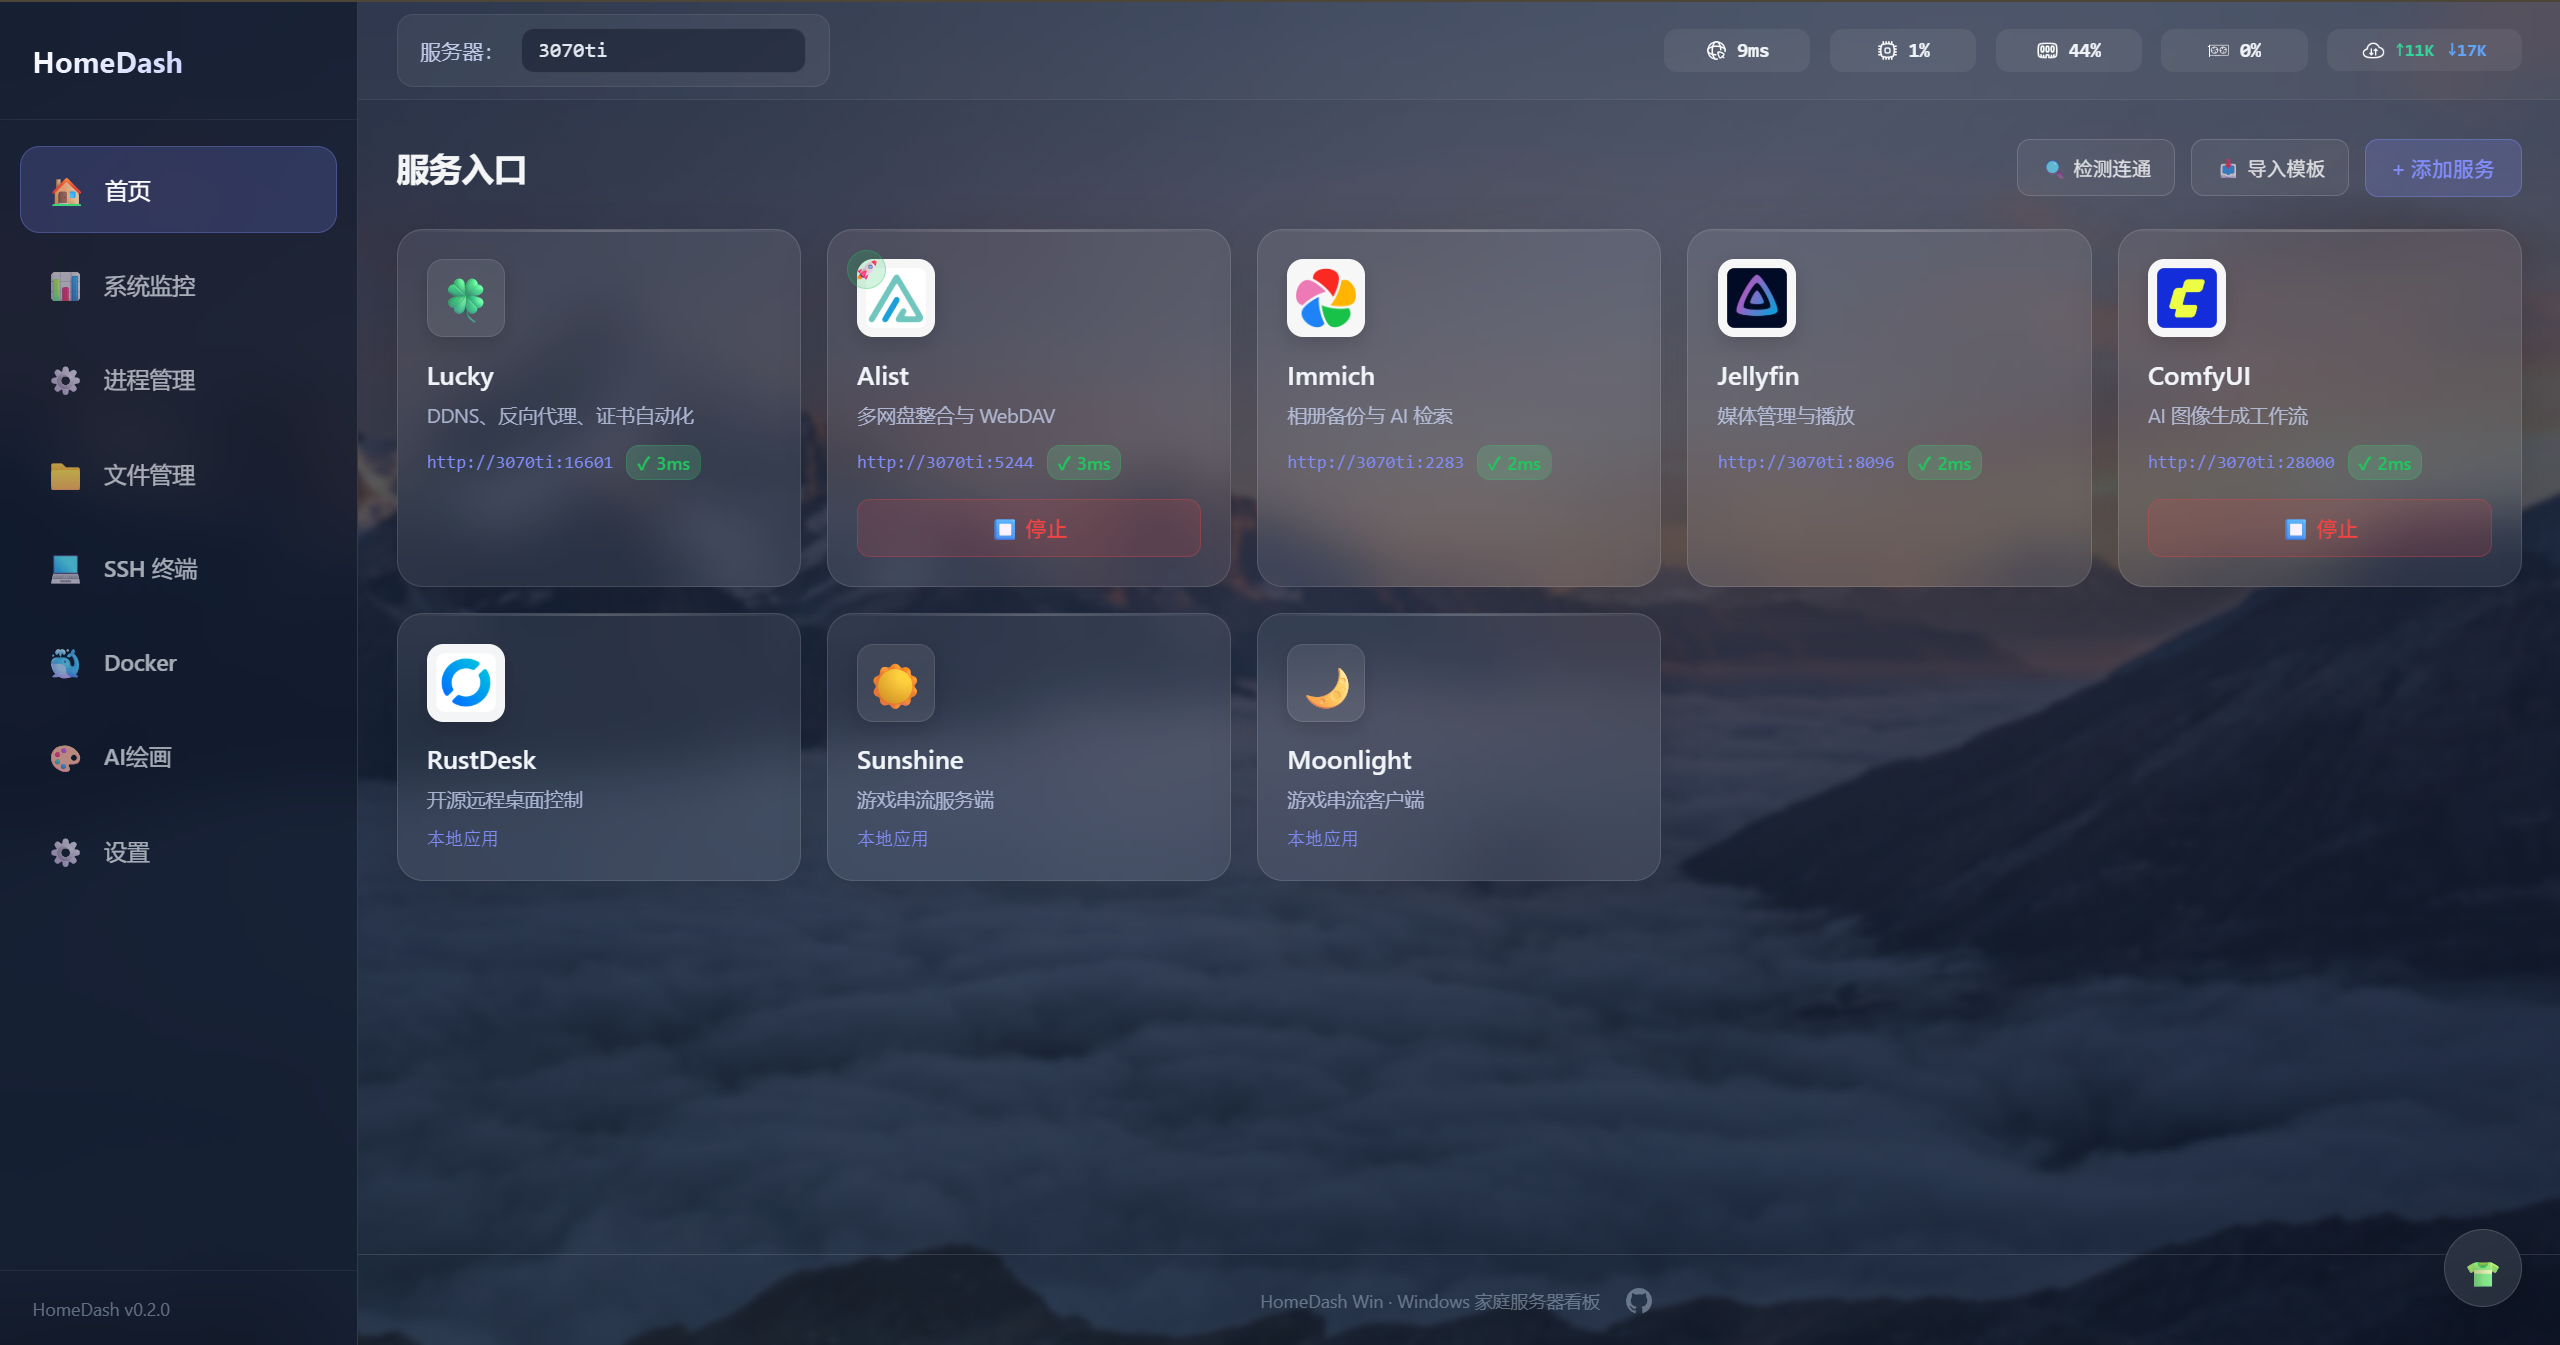
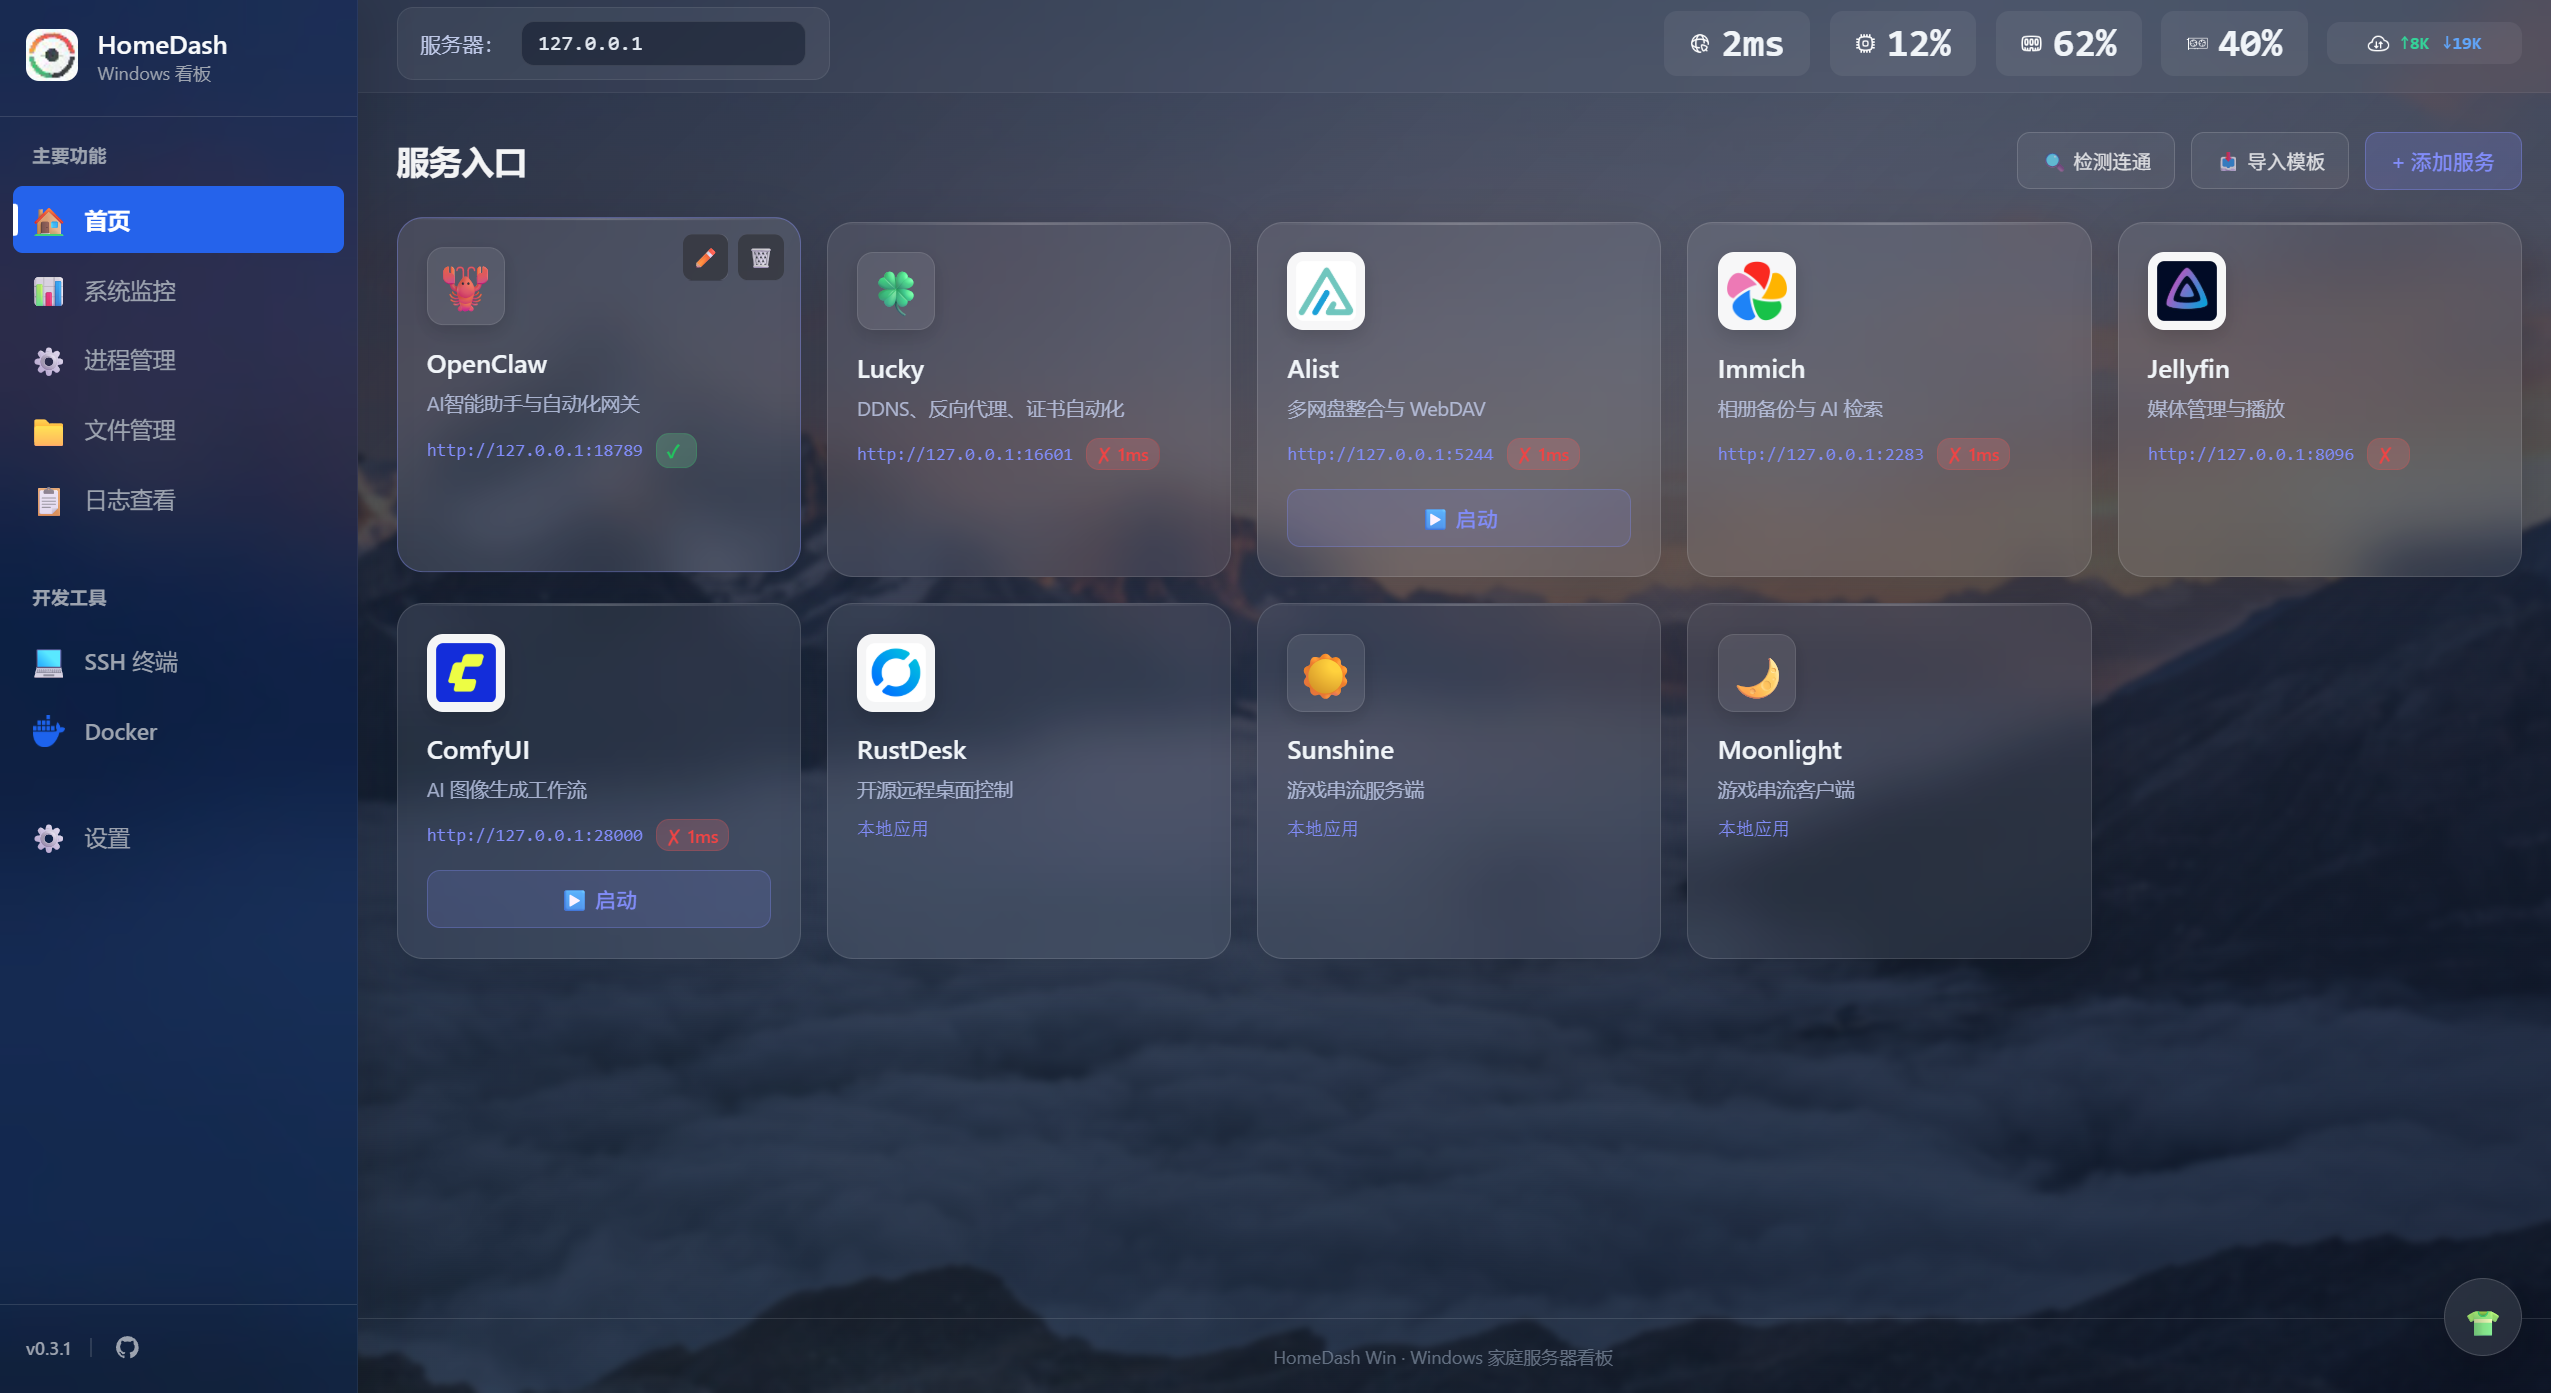
bug fixed

diff --git a/web/templates/partials/navbar.html b/web/templates/partials/navbar.html
@@ -54,7 +54,7 @@
   </nav>
   <div class="sidebar-footer">
     <div class="footer-content">
-      <div class="footer-version">v0.2.0</div>
+      <div class="footer-version">v0.3.1</div>
       <div class="footer-divider"></div>
       <a href="https://github.com/flyingrtx2333/HomeDash-Win" target="_blank" rel="noopener" class="footer-link" title="GitHub">
         <svg viewBox="0 0 16 16" width="14" height="14" fill="currentColor">

diff --git a/web/templates/pages/logs.html b/web/templates/pages/logs.html
@@ -1,4 +1,4 @@
-{{define "logs"}}
+{{define "pages/logs"}}
 <div class="page-container">
   <div class="page-header">
     <h1 class="page-title">📋 日志查看器</h1>

diff --git a/internal/handlers/template.go b/internal/handlers/template.go
@@ -29,6 +29,7 @@ func LoadTemplates() (*template.Template, error) {
 			filepath.Join(templateDir, "partials", "navbar.html"),
 			filepath.Join(templateDir, "partials", "footer.html"),
 			filepath.Join(templateDir, "pages", "all.html"),
+			filepath.Join(templateDir, "pages", "logs.html"),
 			filepath.Join(templateDir, "pages", "home.html"),
 			filepath.Join(templateDir, "pages", "monitor.html"),
 			filepath.Join(templateDir, "pages", "process.html"),

diff --git a/internal/handlers/services.go b/internal/handlers/services.go
@@ -193,7 +193,6 @@ func PingAllServices(c *gin.Context) {
 
 	results := make([]PingResult, 0, len(services))
 	var wg sync.WaitGroup
-	var mu sync.Mutex
 
 	// 添加超时控制
 	type pingResultWrapper struct {
